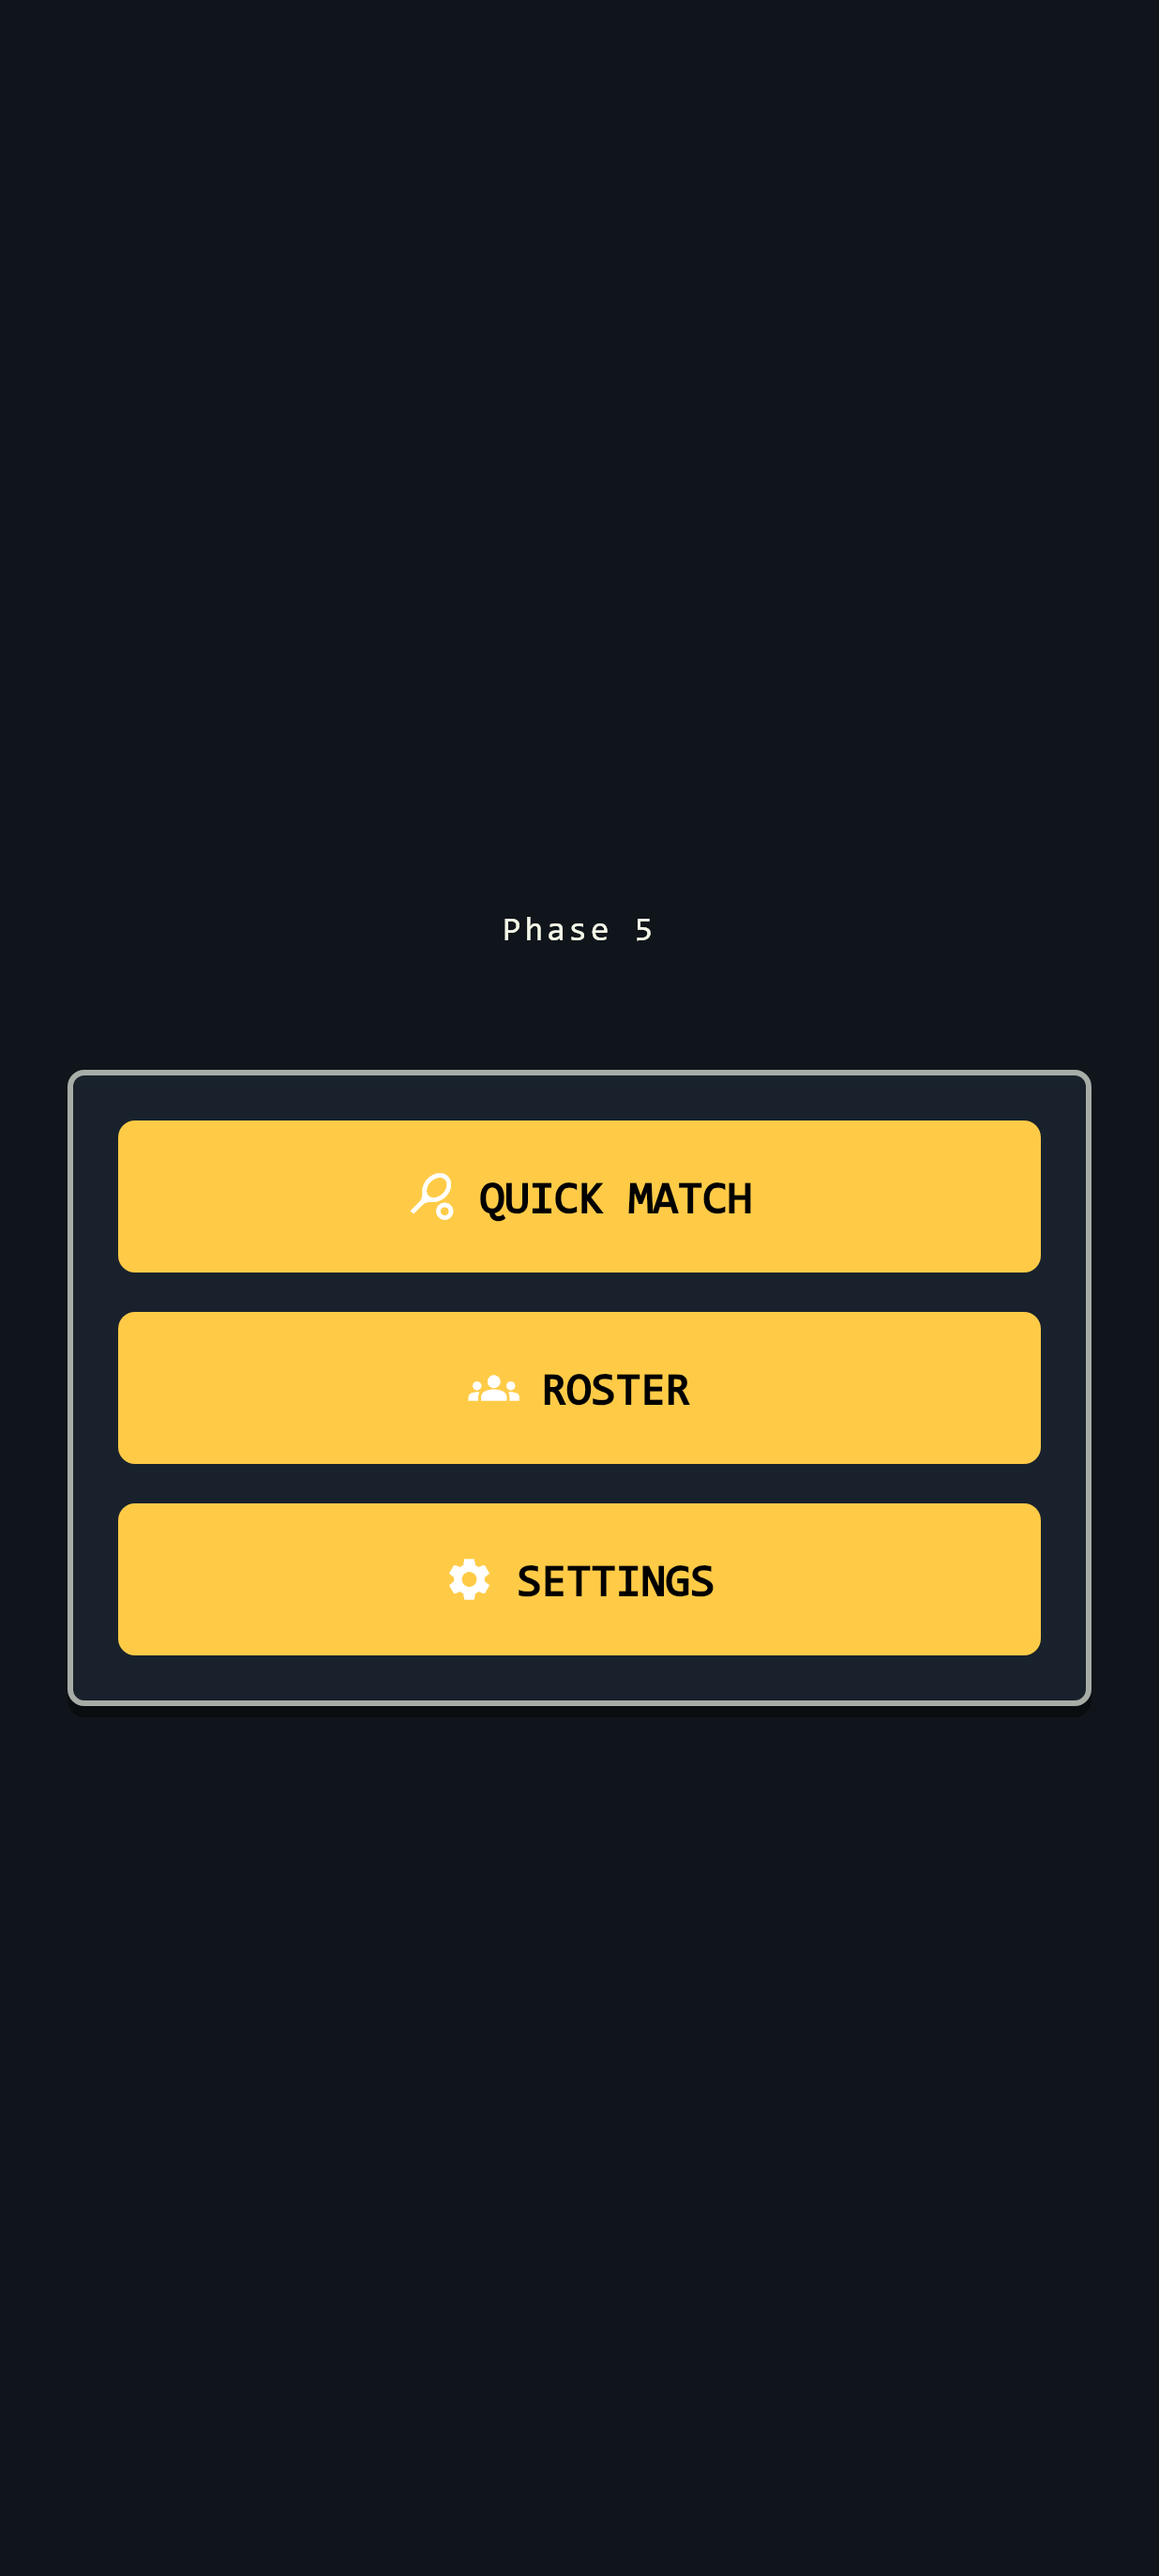
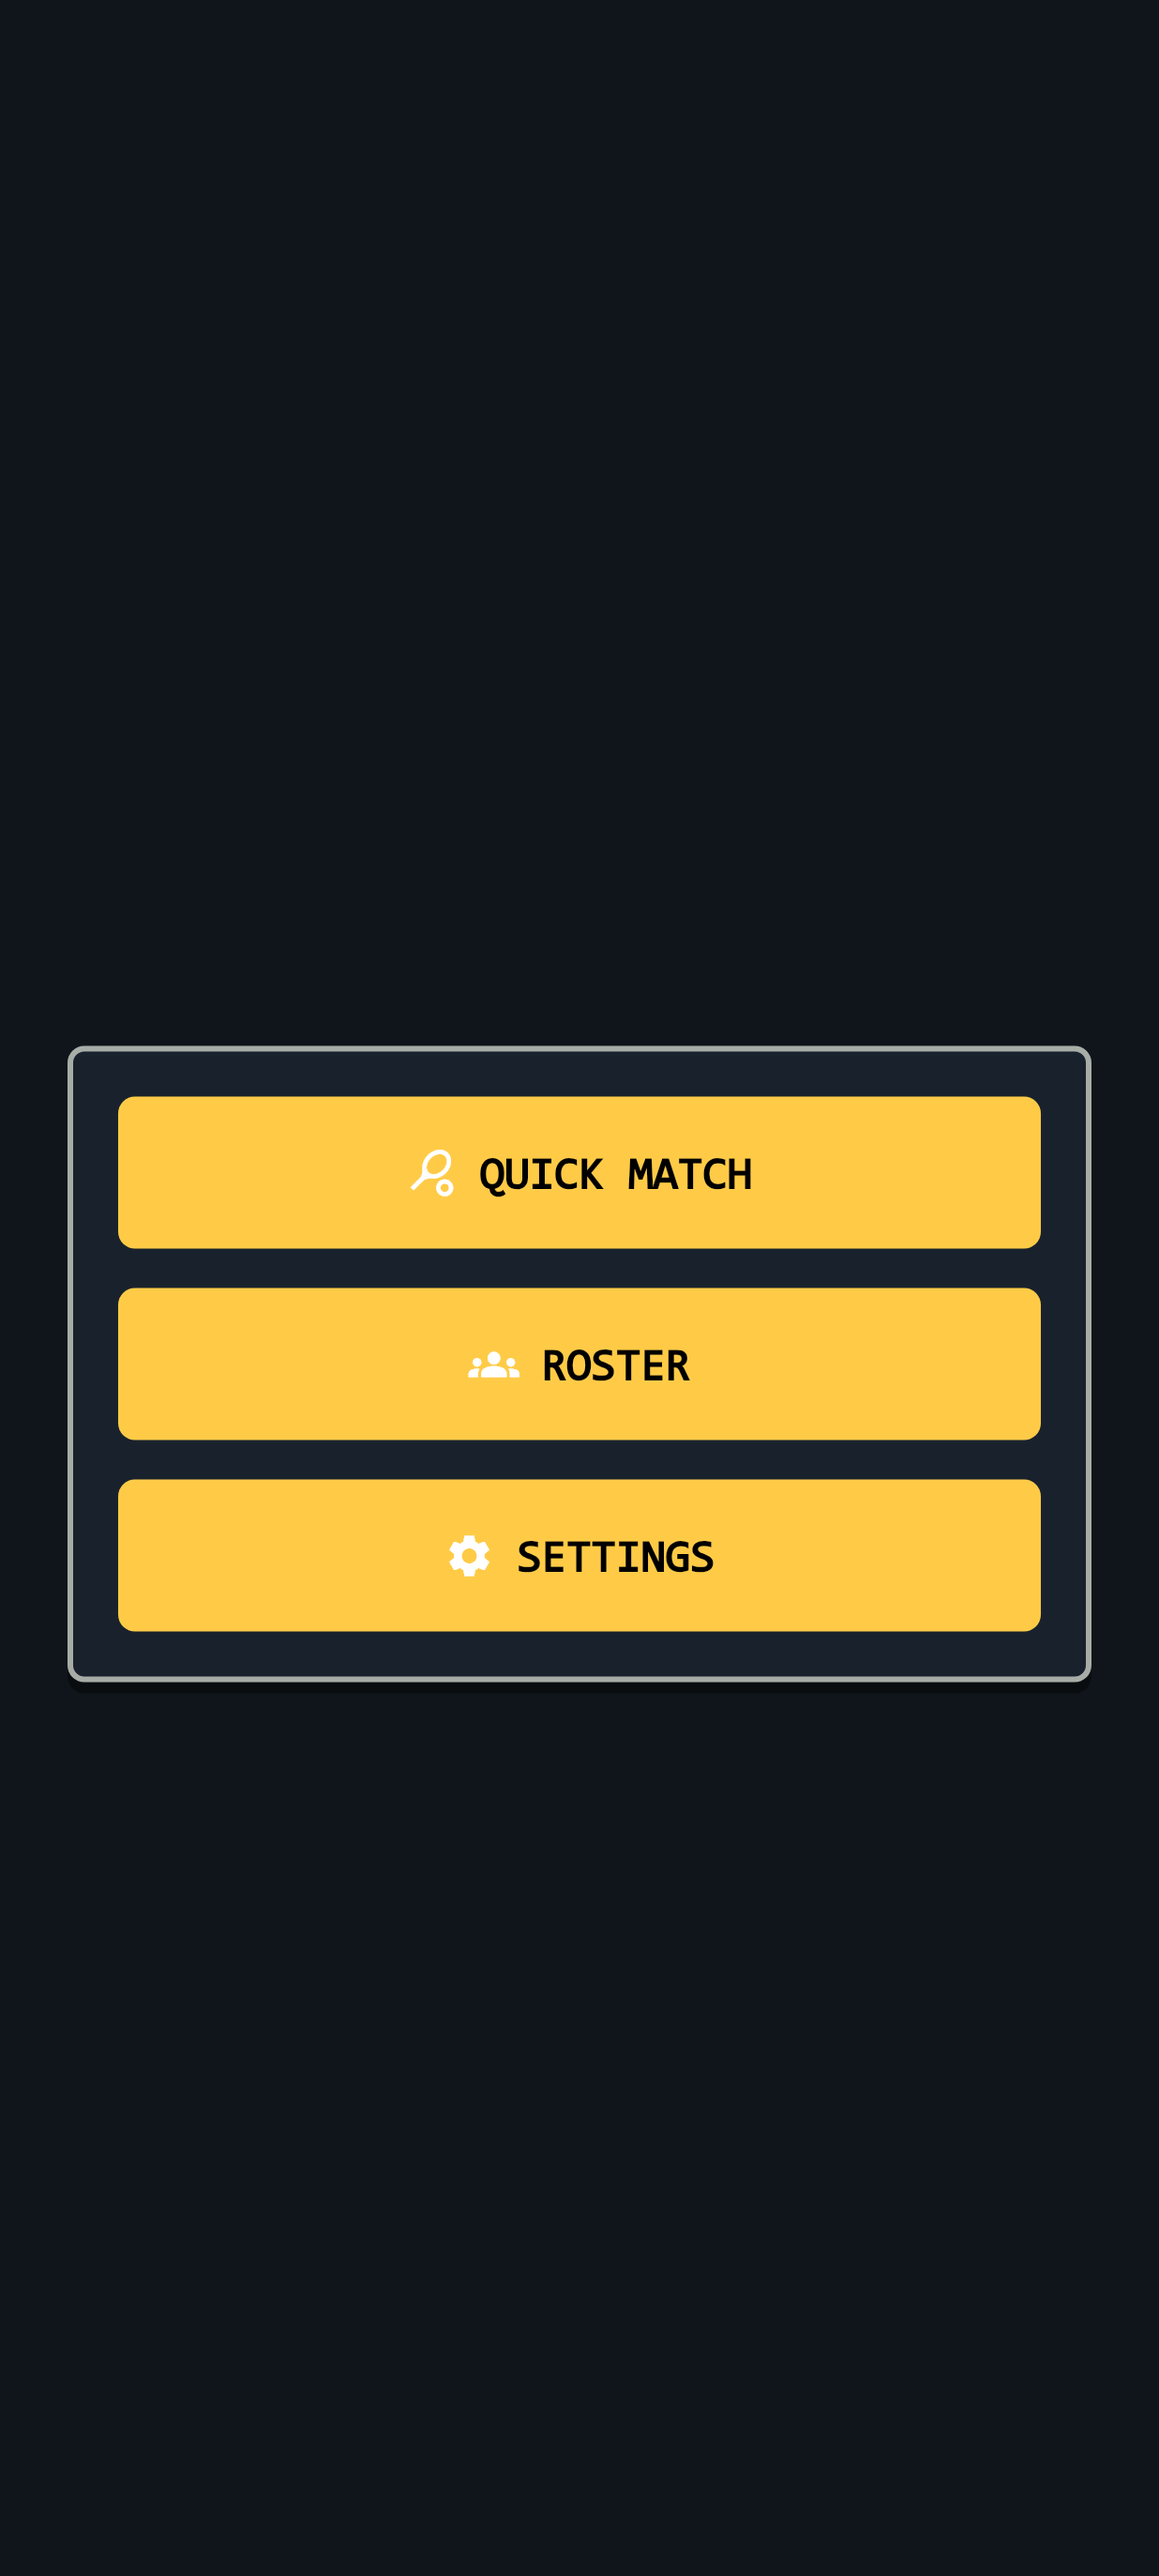
add generated shot vfx assets

Changed region(s): [[0.0615, 0.4026, 0.9531, 0.6812]]

diff --git a/dink_rivals/lib/game/components/vfx/vfx_layer_component.dart b/dink_rivals/lib/game/components/vfx/vfx_layer_component.dart
@@ -1,3 +1,4 @@
+import 'dart:math' as math;
 import 'dart:ui' as ui;
 
 import 'package:flame/components.dart';
@@ -12,11 +13,14 @@ import '../../models/swing_intent.dart';
 import '../../systems/shot_system.dart';
 
 enum VfxSprite {
-  hitSpark('vfx/hit_spark.png'),
-  bounceRing('vfx/bounce_ring.png'),
-  trailSegment('vfx/trail_segment.png'),
-  smashFlash('vfx/smash_flash.png'),
-  pointBurst('vfx/point_burst.png');
+  dinkSpark('vfx/dink_spark_generated.png'),
+  driveArc('vfx/drive_arc_generated.png'),
+  lobArc('vfx/lob_arc_generated.png'),
+  smashBand('vfx/smash_band_generated.png'),
+  missWhiff('vfx/miss_whiff_generated.png'),
+  bounceRing('vfx/bounce_ring_generated.png'),
+  trailSegment('vfx/trail_segment_generated.png'),
+  pointBurst('vfx/point_burst_generated.png');
 
   const VfxSprite(this.assetPath);
 
@@ -85,13 +89,14 @@ class VfxLayerComponent extends Component {
       );
       final scale =
           effect.startScale + (effect.endScale - effect.startScale) * progress;
-      final width = effect.logicalSize.x * scale;
-      final height = effect.logicalSize.y * scale;
       final dst = Rect.fromCenter(
-        center: effect.position.toOffset(),
-        width: width,
-        height: height,
+        center: Offset.zero,
+        width: effect.logicalSize.x * scale,
+        height: effect.logicalSize.y * scale,
       );
+      canvas.save();
+      canvas.translate(effect.position.x, effect.position.y);
+      canvas.rotate(effect.angle);
       canvas.drawImageRect(
         image,
         Rect.fromLTWH(0, 0, image.width.toDouble(), image.height.toDouble()),
@@ -103,6 +108,7 @@ class VfxLayerComponent extends Component {
             BlendMode.modulate,
           ),
       );
+      canvas.restore();
     }
   }
 
@@ -110,6 +116,7 @@ class VfxLayerComponent extends Component {
     required Vector2 courtPosition,
     double z = 0,
     ShotType? shotType,
+    Vector2? shotVelocity,
   }) {
     if (!DebugFlags.useVfx) {
       return;
@@ -118,11 +125,13 @@ class VfxLayerComponent extends Component {
     final isSmash = shotType == ShotType.smash;
     final isLob = shotType == ShotType.lob;
     final isDrive = shotType == ShotType.drive || shotType == ShotType.serve;
-    final sprite = isSmash ? VfxSprite.smashFlash : VfxSprite.hitSpark;
     final depthScale = game.depthScaleForY(courtPosition.y);
+    final shotAngle = shotVelocity == null || shotVelocity.length2 < 0.01
+        ? 0.0
+        : math.atan2(shotVelocity.y, shotVelocity.x);
     _addEffect(
       _ActiveVfx(
-        sprite: sprite,
+        sprite: _contactSpriteFor(shotType),
         position: game.courtToWorld(courtPosition, z),
         logicalSize: Vector2(
           game.logicalToScreen(
@@ -136,19 +145,24 @@ class VfxLayerComponent extends Component {
                 depthScale,
           ),
           game.logicalToScreen(
-            (isLob
-                    ? 18
-                    : isDrive
-                        ? 20
+            (isDrive
+                    ? 16
+                    : isLob
+                        ? 18
                         : isSmash
                             ? 34
                             : 22) *
                 depthScale,
           ),
         ),
-        lifetime: 0.16,
+        lifetime: isLob ? 0.20 : 0.16,
         startScale: 0.85,
         endScale: isDrive ? 1.32 : 1.18,
+        angle: switch (shotType) {
+          ShotType.drive || ShotType.serve => shotAngle,
+          ShotType.lob => -math.pi / 2,
+          _ => 0,
+        },
       ),
     );
   }
@@ -167,11 +181,12 @@ class VfxLayerComponent extends Component {
       swipeDirection: swipeDirection,
     );
     final center = (path.start + path.end) * 0.5;
+    final delta = path.end - path.start;
     final depthScale = game.depthScaleForY(hitter.position.y);
     final isVertical = intent == SwingIntent.lob || intent == SwingIntent.smash;
     _addEffect(
       _ActiveVfx(
-        sprite: VfxSprite.trailSegment,
+        sprite: VfxSprite.missWhiff,
         position: game.courtToWorld(center, Tuning.racketContactZ),
         logicalSize: Vector2(
           game.logicalToScreen((isVertical ? 16 : 34) * depthScale),
@@ -181,6 +196,7 @@ class VfxLayerComponent extends Component {
         startScale: 0.92,
         endScale: 1.15,
         opacityScale: 0.58,
+        angle: delta.length2 < 0.01 ? 0 : math.atan2(delta.y, delta.x),
       ),
     );
   }
@@ -323,6 +339,15 @@ class VfxLayerComponent extends Component {
     }
     _effects.removeRange(0, _effects.length - _maxEffects);
   }
+
+  VfxSprite _contactSpriteFor(ShotType? shotType) {
+    return switch (shotType) {
+      ShotType.drive || ShotType.serve => VfxSprite.driveArc,
+      ShotType.lob => VfxSprite.lobArc,
+      ShotType.smash => VfxSprite.smashBand,
+      ShotType.dink || ShotType.block || null => VfxSprite.dinkSpark,
+    };
+  }
 }
 
 class _TrailSample {
@@ -339,6 +364,7 @@ class _ActiveVfx {
     required this.startScale,
     required this.endScale,
     this.opacityScale = 1,
+    this.angle = 0,
   });
 
   final VfxSprite sprite;
@@ -348,6 +374,7 @@ class _ActiveVfx {
   final double startScale;
   final double endScale;
   final double opacityScale;
+  final double angle;
   double age = 0;
 
   bool get isExpired => age >= lifetime;

diff --git a/dink_rivals/test/vfx_layer_component_test.dart b/dink_rivals/test/vfx_layer_component_test.dart
@@ -62,7 +62,40 @@ void main() {
     expect(vfx.activeEffectCountForTesting, 0);
   });
 
-  test('swing miss uses a short trail-style whiff effect', () {
+  test('shot contact effects use distinct generated sprites', () {
+    final game = DinkRivalsGame();
+    game.courtLayoutSystem.resize(Vector2(412, 915));
+    final vfx = VfxLayerComponent(game);
+
+    vfx.spawnContact(
+      courtPosition: Vector2(110, 240),
+      shotType: ShotType.dink,
+    );
+    vfx.spawnContact(
+      courtPosition: Vector2(110, 240),
+      shotType: ShotType.drive,
+      shotVelocity: Vector2(20, -80),
+    );
+    vfx.spawnContact(
+      courtPosition: Vector2(110, 240),
+      shotType: ShotType.lob,
+    );
+    vfx.spawnContact(
+      courtPosition: Vector2(110, 240),
+      shotType: ShotType.smash,
+    );
+
+    expect(
+        vfx.activeSpriteNamesForTesting,
+        containsAll([
+          'dinkSpark',
+          'driveArc',
+          'lobArc',
+          'smashBand',
+        ]));
+  });
+
+  test('swing miss uses a short generated whiff effect', () {
     final game = DinkRivalsGame();
     game.courtLayoutSystem.resize(Vector2(412, 915));
     final vfx = VfxLayerComponent(game);
@@ -77,7 +110,7 @@ void main() {
     );
 
     expect(vfx.activeEffectCountForTesting, 1);
-    expect(vfx.activeSpriteNamesForTesting, contains('trailSegment'));
+    expect(vfx.activeSpriteNamesForTesting, contains('missWhiff'));
 
     vfx.update(0.21);
     expect(vfx.activeEffectCountForTesting, 0);

diff --git a/dink_rivals/lib/screens/main_menu_screen.dart b/dink_rivals/lib/screens/main_menu_screen.dart
@@ -3,7 +3,6 @@ import 'package:flutter_riverpod/flutter_riverpod.dart';
 import 'package:go_router/go_router.dart';
 
 import '../app/audio_provider.dart';
-import '../app/app_config.dart';
 import '../app/game_provider.dart';
 import '../app/router.dart';
 import '../game/config/visual_palette.dart';
@@ -31,24 +30,7 @@ class MainMenuScreen extends ConsumerWidget {
                   crossAxisAlignment: CrossAxisAlignment.center,
                   children: [
                     const _Logo(),
-                    const SizedBox(height: 12),
-                    const Text(
-                      AppConfig.phaseLabel,
-                      textAlign: TextAlign.center,
-                      style: TextStyle(
-                        color: VisualPalette.courtLineWhite,
-                        fontSize: 12,
-                        letterSpacing: 1.2,
-                        shadows: [
-                          Shadow(
-                            color: VisualPalette.uiBackground,
-                            offset: Offset(0, 2),
-                            blurRadius: 0,
-                          ),
-                        ],
-                      ),
-                    ),
-                    const SizedBox(height: 42),
+                    const SizedBox(height: 54),
                     ArcadePanel(
                       backgroundColor:
                           VisualPalette.uiSurface.withValues(alpha: 0.86),

diff --git a/dink_rivals/lib/game/dink_rivals_game.dart b/dink_rivals/lib/game/dink_rivals_game.dart
@@ -364,6 +364,7 @@ class DinkRivalsGame extends FlameGame with TapCallbacks, DragCallbacks {
       courtPosition: Vector2(preHitBall.x, preHitBall.y),
       z: preHitBall.z,
       shotType: shotSystem.lastShotType,
+      shotVelocity: Vector2(ball.state.vx, ball.state.vy),
     );
     if (!matchState.pointInProgress) {
       matchState.startPoint();
@@ -480,6 +481,7 @@ class DinkRivalsGame extends FlameGame with TapCallbacks, DragCallbacks {
         courtPosition: Vector2(preAiBall.x, preAiBall.y),
         z: preAiBall.z,
         shotType: shotSystem.lastShotType,
+        shotVelocity: Vector2(ball.state.vx, ball.state.vy),
       );
       final volleyResult = matchRulesSystem.evaluateVolley(
         hitter: opponent.state,

diff --git a/dink_rivals/assets/images/vfx/README.md b/dink_rivals/assets/images/vfx/README.md
@@ -1,13 +1,24 @@
-# VFX Placeholder Manifest
+# VFX Asset Manifest
 
-These are original low-detail retro placeholder sprites for Phase 5E. They are intentionally short-lived support effects, not gameplay indicators.
+Runtime VFX now use generated pixel-art sprites cropped from
+`docs/art/visual-overhaul/contact-sheets/shot-vfx-generated-sheet.png`.
+The source sheet was generated with the built-in image generation tool on a
+flat magenta chroma-key background, then split and alpha-keyed locally.
 
 | File | Size | Intended use | Status |
 | --- | ---: | --- | --- |
-| `hit_spark.png` | 48x48 | Racket contact spark for dink/drive/block/serve | Placeholder |
-| `bounce_ring.png` | 56x40 | Ground-contact bounce ring/dust | Placeholder |
-| `trail_segment.png` | 48x24 | Future short ball trail segment | Placeholder |
-| `smash_flash.png` | 64x64 | Smash contact flash | Placeholder |
-| `point_burst.png` | 72x72 | Future point-ending burst | Placeholder |
+| `dink_spark_generated.png` | 231x169 | Dink/block contact sparkle | Generated |
+| `drive_arc_generated.png` | 304x207 | Drive/serve contact arc, rotated by shot velocity | Generated |
+| `lob_arc_generated.png` | 244x353 | Lob scoop contact arc | Generated |
+| `smash_band_generated.png` | 238x426 | Smash impact band | Generated |
+| `miss_whiff_generated.png` | 223x256 | Missed swing whiff at committed hitbox line | Generated |
+| `bounce_ring_generated.png` | 308x171 | Ground-contact bounce ring | Generated |
+| `trail_segment_generated.png` | 278x123 | Ball trail segment | Generated |
+| `point_burst_generated.png` | 275x305 | Point-ending burst | Generated |
+| `hit_spark.png` | 48x48 | Legacy contact spark | Legacy placeholder |
+| `bounce_ring.png` | 56x40 | Legacy bounce ring | Legacy placeholder |
+| `trail_segment.png` | 48x24 | Legacy ball trail segment | Legacy placeholder |
+| `smash_flash.png` | 64x64 | Legacy smash flash | Legacy placeholder |
+| `point_burst.png` | 72x72 | Legacy point burst | Legacy placeholder |
 
-Generation approach: authored locally with Pillow using simple pixel-aligned shapes and Phase 5A color rules. No third-party art was used.
+Runtime owner: `VfxLayerComponent`.

diff --git a/docs/art/visual-overhaul/prompts/shot-vfx-generated-sheet.md b/docs/art/visual-overhaul/prompts/shot-vfx-generated-sheet.md
@@ -1,0 +1,23 @@
+# Shot VFX Generated Sheet Prompt
+
+Mode: built-in image generation tool.
+
+Source output preserved at:
+`C:\Users\saffa\.codex\generated_images\019e17dc-950d-7d92-a846-b0ee361d56e5\ig_0b53184666458ebf016a022f7a0b74819a9ea815c603c246f5.png`
+
+Workspace contact sheet:
+`docs/art/visual-overhaul/contact-sheets/shot-vfx-generated-sheet.png`
+
+Prompt:
+
+```text
+Use case: stylized-concept
+Asset type: runtime game VFX sprite sheet for a Flutter/Flame mobile arcade pickleball game
+Primary request: Create a pixel-art arcade sports impact VFX sprite sheet on a perfectly flat solid #ff00ff chroma-key background for background removal. The sheet should contain eight separated VFX icons arranged in a clean 4 columns by 2 rows grid with generous padding: small dink sparkle, horizontal drive slash arc, upward lob scoop arc, vertical overhead smash impact band, miss whiff arc, bounce ring oval, fast ball trail segment, point burst star.
+Style/medium: crisp hard-edge pixel art, polished mobile arcade game asset, transparent-cutout-ready with no antialias haze.
+Composition/framing: square sheet, each VFX centered in its cell, no overlap between cells, no labels or text, no shadows cast on the background, no grid lines.
+Lighting/mood: bright controlled sports feedback, upper-left light feel.
+Color palette: yellow-white ball-impact highlights, teal/cyan drive energy, warm orange smash, pale blue whiff, lime avoided due to chroma key conflict.
+Constraints: background must be one uniform #ff00ff color with no gradients, texture, lighting variation, floor plane, contact shadows, or reflections; keep all VFX fully separated from the background with crisp edges; do not use #ff00ff anywhere in the VFX; original non-branded art only.
+Avoid: text, logos, watermark, photorealism, blur, smoke clouds, soft painterly haze, busy tiny details, black halo, random symbols.
+```
